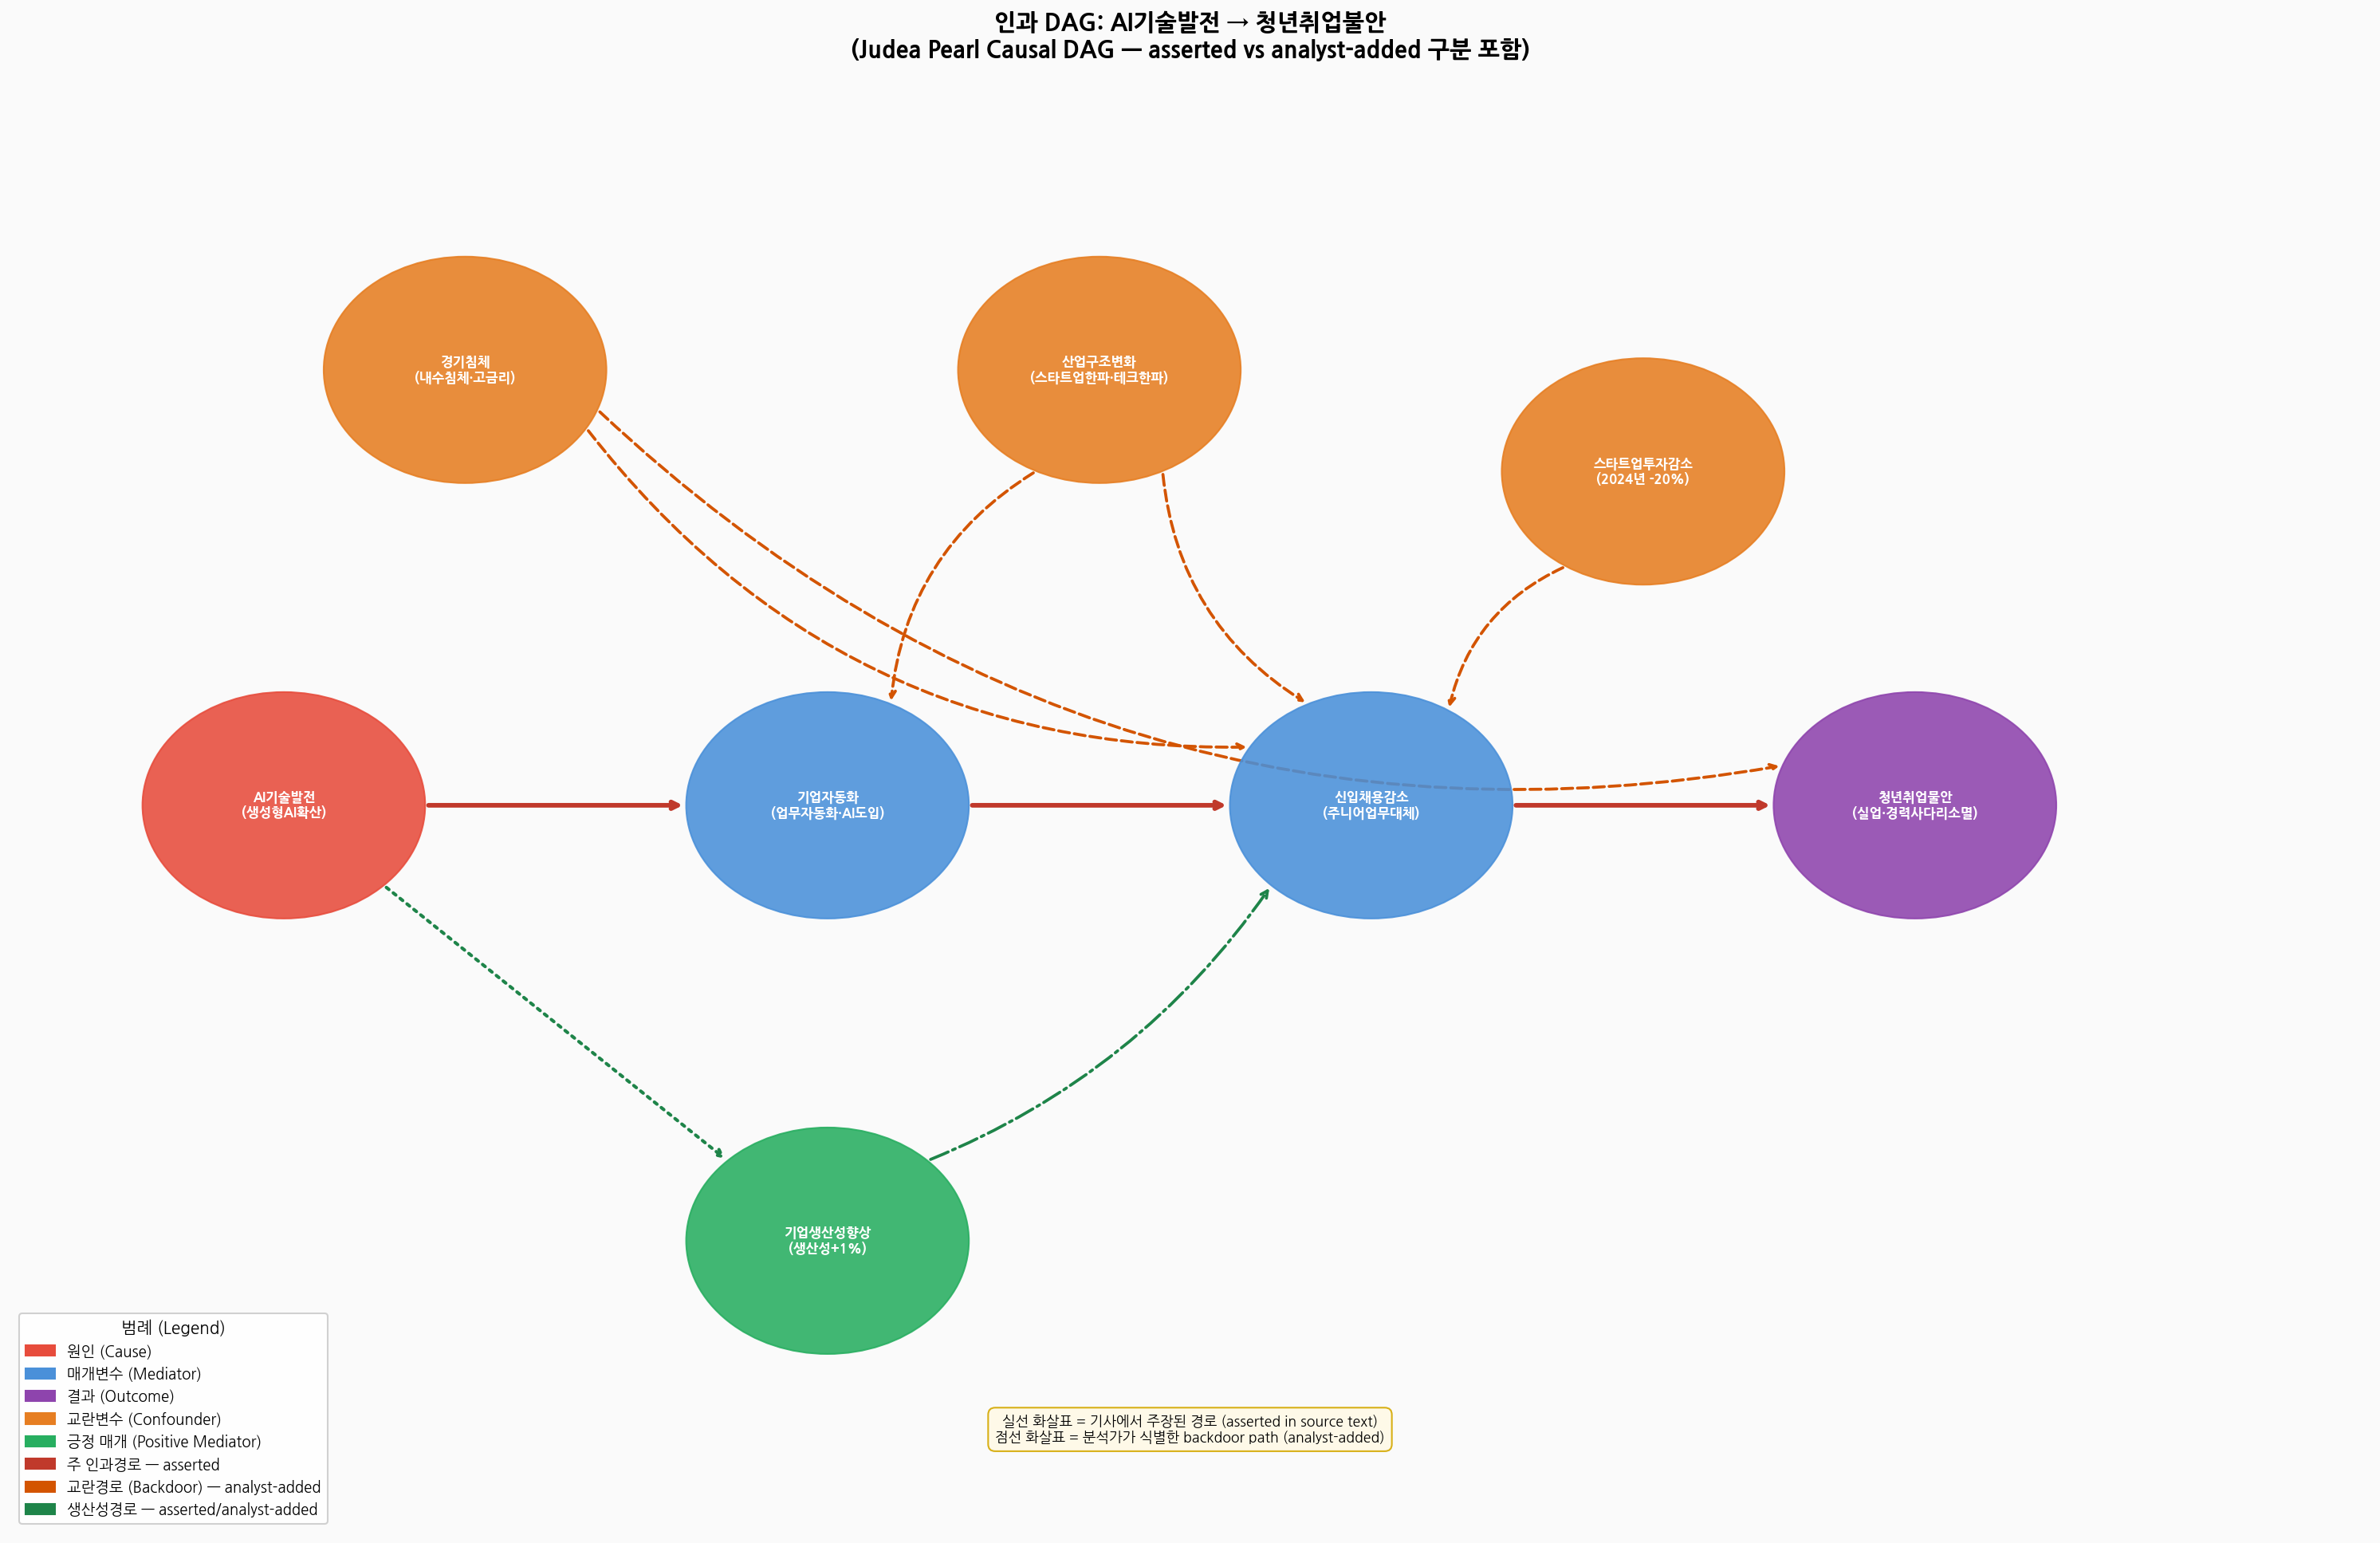
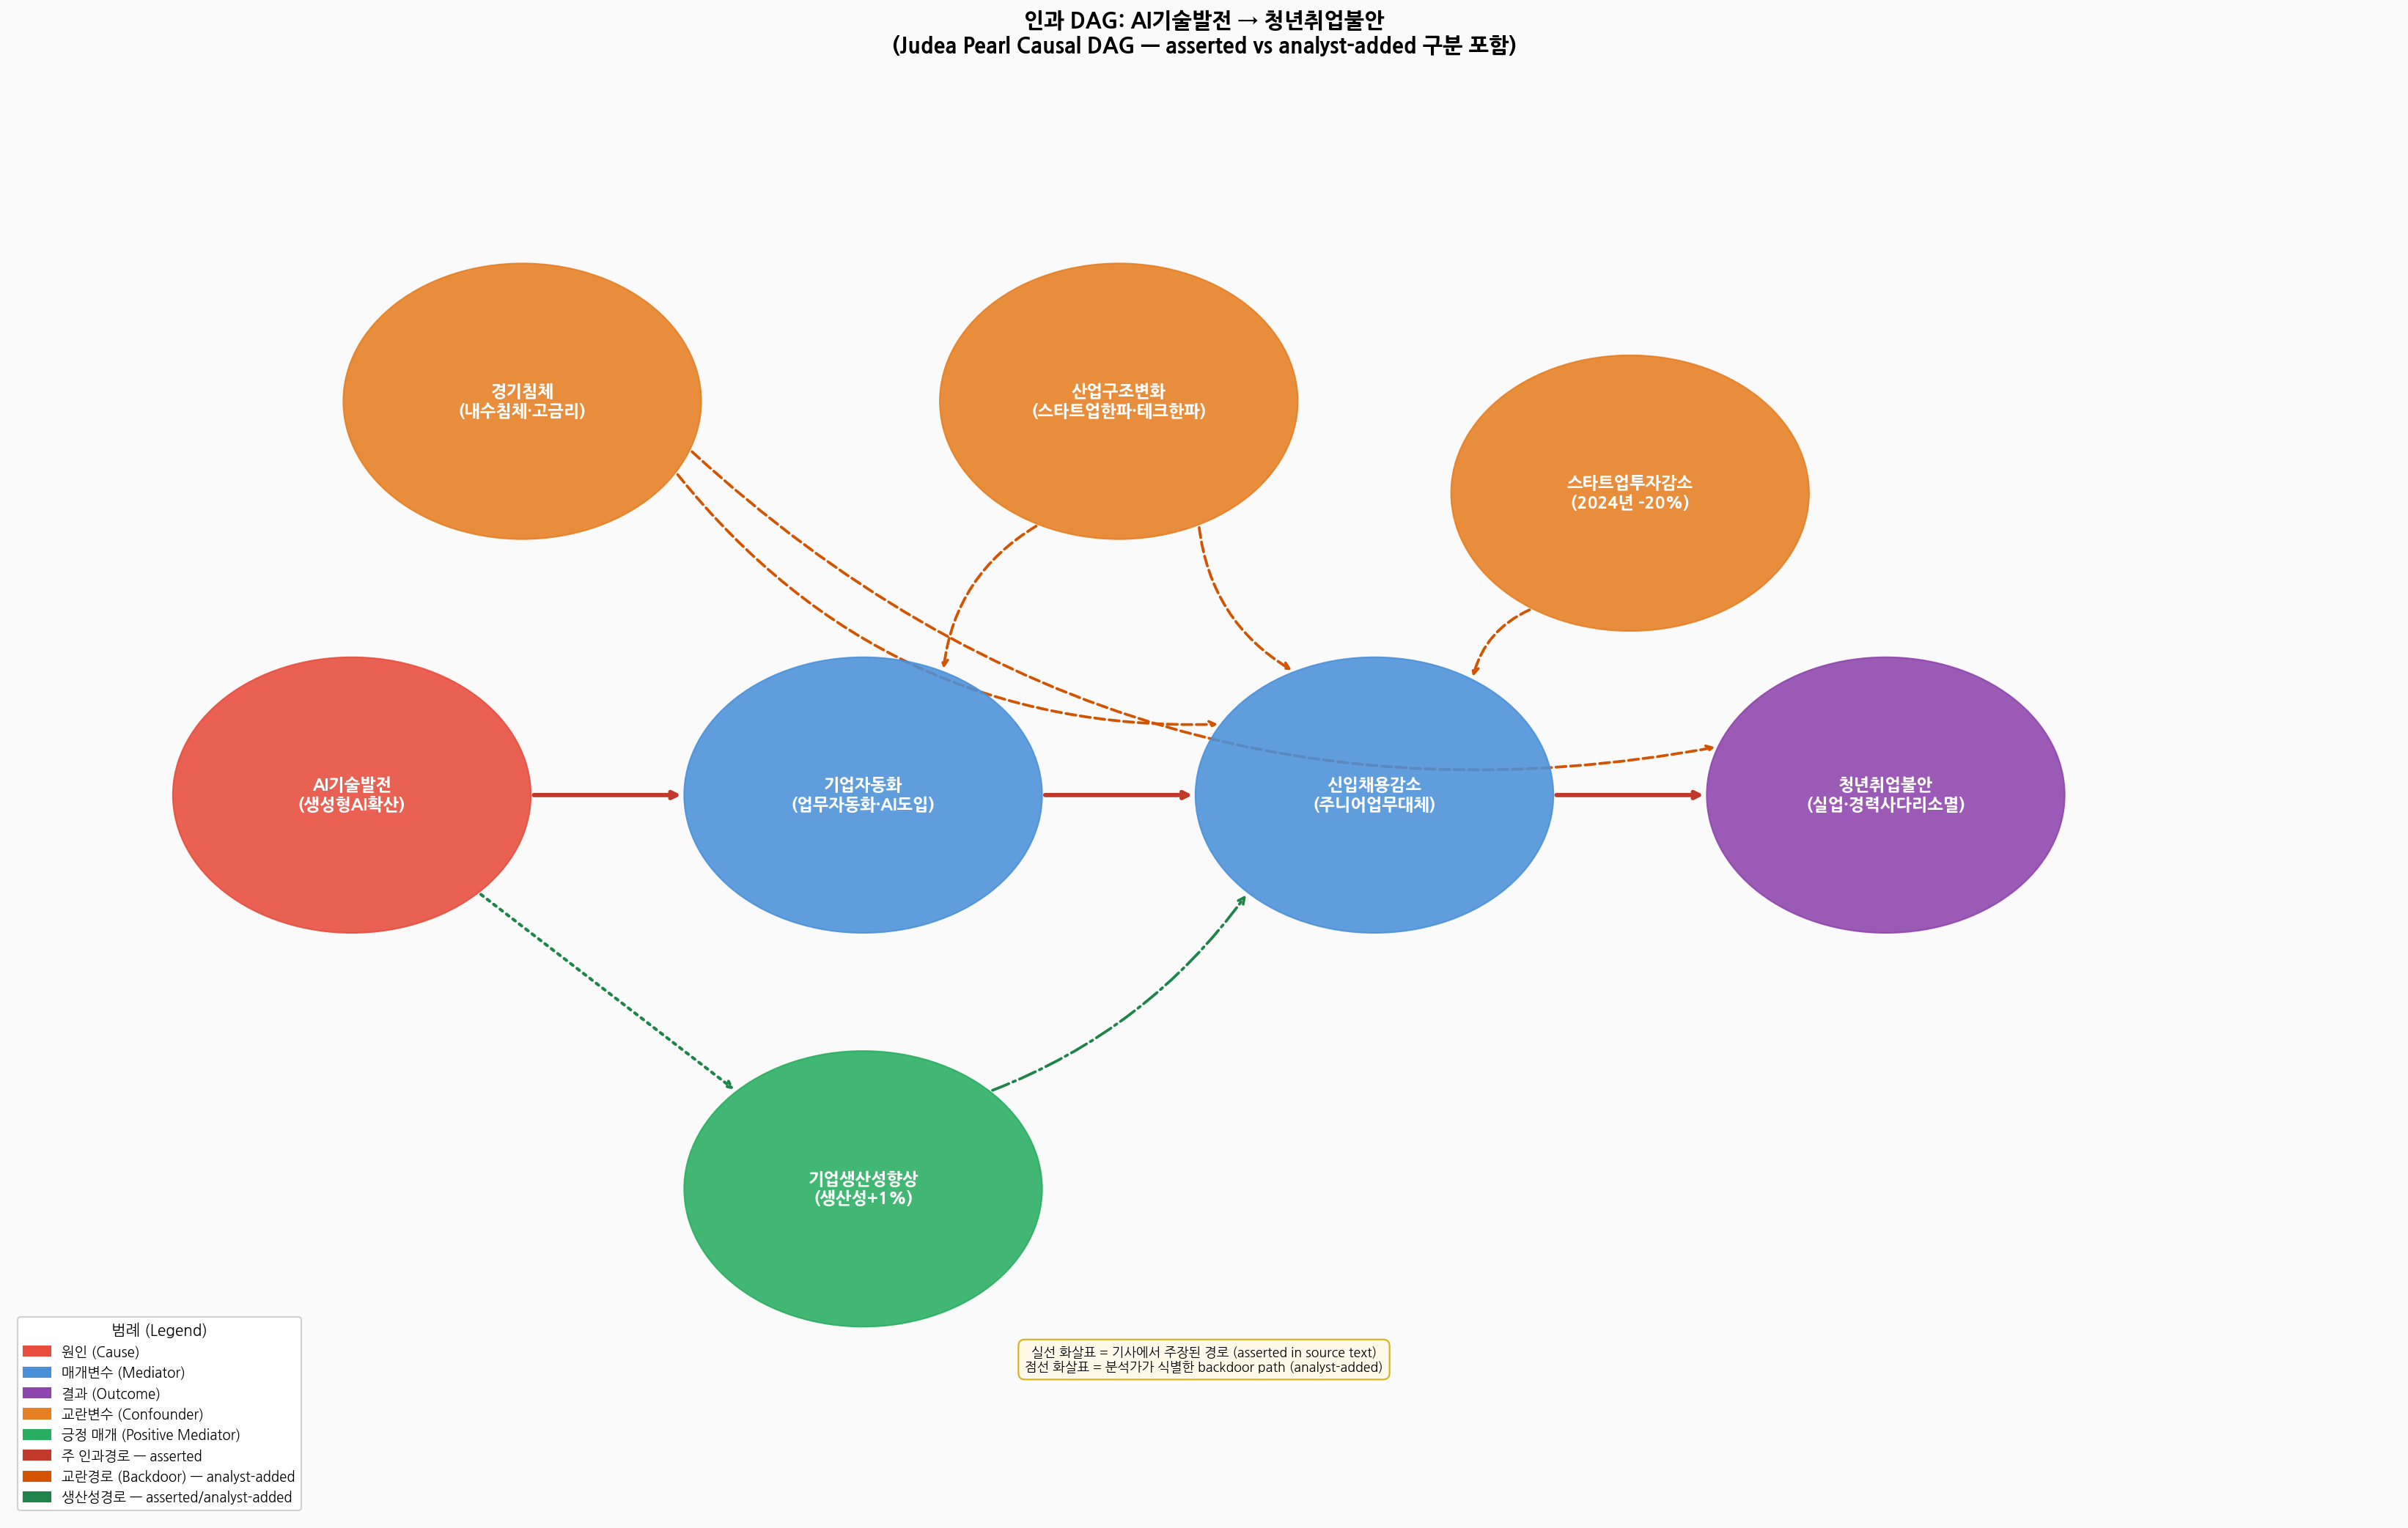
Increase DAG node size and font size for readability

diff --git a/run_pipeline.py b/run_pipeline.py
@@ -526,15 +526,15 @@ def build_causal_dag():
     for s, t, etype, esrc in dag_edges:
         G.add_edge(s, t, etype=etype, edge_source=esrc)
 
-    fig, ax = plt.subplots(figsize=(20, 13))
+    fig, ax = plt.subplots(figsize=(22, 14))
     ax.set_facecolor("#FAFAFA")
     fig.patch.set_facecolor("#FAFAFA")
-    ax.set_xlim(-1, 12)
-    ax.set_ylim(-4.5, 5.5)
+    ax.set_xlim(-1.5, 12.5)
+    ax.set_ylim(-5.0, 6.0)
     ax.axis("off")
 
     # ── Draw circles ─────────────────────────────────────────────────────
-    r = 0.78
+    r = 1.05
     for key, (x, y, label, color) in {
         nid: (pos[nid][0], pos[nid][1],
               next(lab for n, lab, _ in dag_nodes if n == nid),
@@ -544,7 +544,7 @@ def build_causal_dag():
         circle = plt.Circle((x, y), r, color=color, alpha=0.88, zorder=3)
         ax.add_patch(circle)
         ax.text(x, y, label, ha="center", va="center",
-                fontsize=8.0, fontweight="bold", color="white",
+                fontsize=11.0, fontweight="bold", color="white",
                 zorder=4, multialignment="center")
 
     # ── Draw arrows ───────────────────────────────────────────────────────